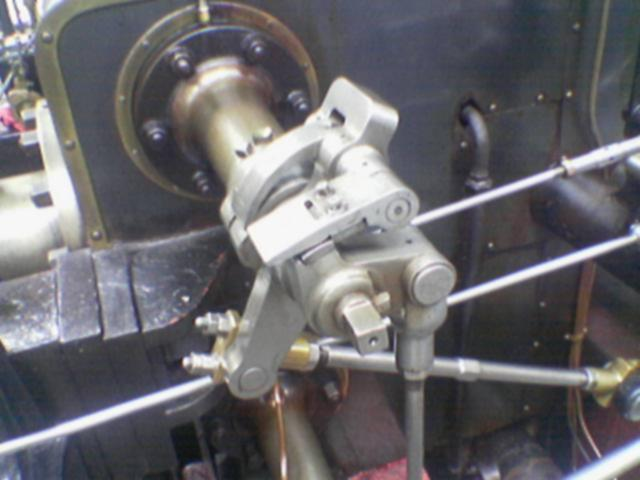
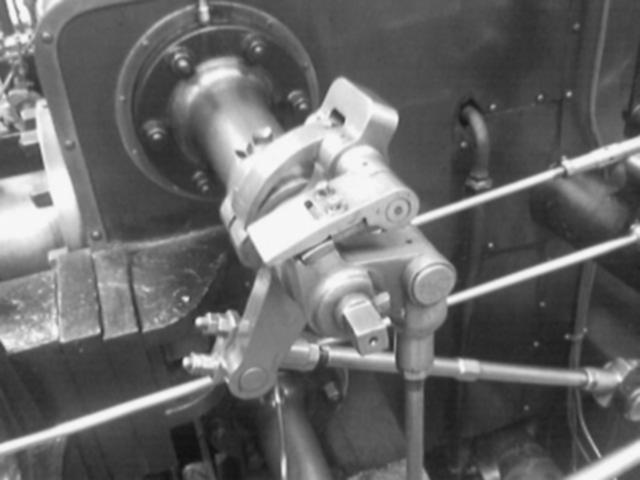
Creating Main function file

diff --git a/project-gpu.py b/project-gpu.py
@@ -1,0 +1,207 @@
+import argparse
+import numpy as np
+from PIL import Image
+from numba import cuda
+import math
+
+# Define global variables for thread block size
+TB_WIDTH = 16
+TB_HEIGHT = 16
+
+def bw_kernel(image_array):
+    global TB_WIDTH, TB_HEIGHT
+    # Use TB_WIDTH and TB_HEIGHT inside the kernel operation
+
+
+    # Define the grayscale kernel
+    bw_kernel = np.array([0.2989, 0.5870, 0.1140])
+
+    # Define the function to apply grayscale kernel to all pixels in parallel
+    @cuda.jit
+    def apply_grayscale_kernel(image_array, grayscale_image_array, bw_kernel):
+        i, j = cuda.grid(2)
+        if i < image_array.shape[0] and j < image_array.shape[1]:
+            # Calculate the dot product manually for each channel
+            grayscale_value = image_array[i, j, 0] * bw_kernel[0] + \
+                            image_array[i, j, 1] * bw_kernel[1] + \
+                            image_array[i, j, 2] * bw_kernel[2]
+            # Set the grayscale value for one channel
+            grayscale_image_array[i, j] = grayscale_value
+
+    # Calculate grid and block dimensions
+    threadsperblock = (TB_WIDTH, TB_HEIGHT)
+    blockspergrid_x = (image_array.shape[0] + threadsperblock[0] - 1) // threadsperblock[0]
+    blockspergrid_y = (image_array.shape[1] + threadsperblock[1] - 1) // threadsperblock[1]
+    blockspergrid = (blockspergrid_x, blockspergrid_y)
+
+    # Allocate memory for grayscale image
+    grayscale_image_array = np.empty((image_array.shape[0], image_array.shape[1]), dtype=np.float64)
+
+    # Launch the kernel
+    apply_grayscale_kernel[blockspergrid, threadsperblock](image_array, grayscale_image_array, bw_kernel)
+
+    # Normalize the grayscale image array
+    return np.uint8(grayscale_image_array)
+
+def gauss_kernel(image_array):
+    global TB_WIDTH, TB_HEIGHT
+    # Use TB_WIDTH and TB_HEIGHT inside the kernel operation
+
+    gaussian_filter = np.array([[1, 4, 6, 4, 1],
+                                [4, 16, 24, 16, 4],
+                                [6, 24, 36, 24, 6],
+                                [4, 16, 24, 16, 4],
+                                [1, 4, 6, 4, 1]])
+
+    # Define the function to apply Gaussian filter to a single channel
+    @cuda.jit
+    def apply_gaussian_filter_single_channel(array, filtered_array, gaussian_filter):
+        i, j = cuda.grid(2)
+        if i < array.shape[0] and j < array.shape[1]:
+            # Initialize the sum to the current pixel value
+            pixel_sum = array[i, j]
+            weight_sum = 1
+
+            # Iterate over the neighbors and apply the filter
+            for k in range(-2, 3):
+                for l in range(-2, 3):
+                    if 0 <= i + k < array.shape[0] and 0 <= j + l < array.shape[1]:
+                        pixel_sum += array[i + k, j + l] * gaussian_filter[k + 2, l + 2]
+                        weight_sum += gaussian_filter[k + 2, l + 2]
+
+            # Normalize the result
+            filtered_array[i, j] = pixel_sum / weight_sum
+
+    # Define the function to apply Gaussian filter to all channels in parallel
+    @cuda.jit
+    def apply_gaussian_filter(image_array, filtered_image_array, gaussian_filter):
+        i, j = cuda.grid(2)
+        if i < image_array.shape[0] and j < image_array.shape[1]:
+            apply_gaussian_filter_single_channel(
+                image_array, 
+                filtered_image_array,
+                gaussian_filter
+            )
+
+    # Calculate grid and block dimensions
+    threadsperblock = (TB_WIDTH, TB_HEIGHT)
+    blockspergrid_x = (image_array.shape[0] + threadsperblock[0] - 1) // threadsperblock[0]
+    blockspergrid_y = (image_array.shape[1] + threadsperblock[1] - 1) // threadsperblock[1] 
+    blockspergrid = (blockspergrid_x, blockspergrid_y)
+
+    # Allocate memory for filtered image
+    filtered_image_array = np.empty_like(image_array, dtype=np.float64)
+
+    # Copy the Gaussian filter to the device
+    d_gaussian_filter = cuda.to_device(gaussian_filter)
+
+    # Launch the kernel
+    apply_gaussian_filter[blockspergrid, threadsperblock](image_array, filtered_image_array, d_gaussian_filter)
+
+    # Normalize the filtered image array
+    filtered_image_array = np.uint8(filtered_image_array)
+    return filtered_image_array
+
+def sobel_kernel(image_array):
+    global TB_WIDTH, TB_HEIGHT
+    # Use TB_WIDTH and TB_HEIGHT inside the kernel operation
+
+    # Define the Sobel kernel
+    sobel_x = np.array([[1, 0, -1], [2, 0, -2], [1, 0, -1]])
+    sobel_y = np.array([[1, 2, 1], [0, 0, 0], [-1, -2, -1]])
+
+    @cuda.jit
+    def sobel_filter(image, output_image, sobel_x, sobel_y):
+        i, j = cuda.grid(2)
+        
+        if i > 0 and i < image.shape[0] - 1 and j > 0 and j < image.shape[1] - 1:
+                # Compute gradient in x direction
+                gx = (sobel_x[0, 0] * image[i - 1, j - 1] + sobel_x[0, 1] * image[i - 1, j] + sobel_x[0, 2] * image[i - 1, j + 1] +
+                    sobel_x[1, 0] * image[i, j - 1] + sobel_x[1, 1] * image[i, j] + sobel_x[1, 2] * image[i, j + 1] +
+                    sobel_x[2, 0] * image[i + 1, j - 1] + sobel_x[2, 1] * image[i + 1, j] + sobel_x[2, 2] * image[i + 1, j + 1])
+
+                # Compute gradient in y direction
+                gy = (sobel_y[0, 0] * image[i - 1, j - 1] + sobel_y[0, 1] * image[i - 1, j] + sobel_y[0, 2] * image[i - 1, j + 1] +
+                    sobel_y[1, 0] * image[i, j - 1] + sobel_y[1, 1] * image[i, j] + sobel_y[1, 2] * image[i, j + 1] +
+                    sobel_y[2, 0] * image[i + 1, j - 1] + sobel_y[2, 1] * image[i + 1, j] + sobel_y[2, 2] * image[i + 1, j + 1])
+                output_image[i + 1, j + 1] =math.sqrt(gx**2 + gy**2)                                                                                      
+                
+
+
+
+    output = np.zeros_like(image_array)
+    # Create CUDA device array for the image
+    d_image = cuda.to_device(image_array)
+    d_output = cuda.to_device(output)
+
+
+
+
+    # Define block and grid dimensions
+    threadsperblock = (TB_WIDTH, TB_HEIGHT)
+    blockspergrid_x = (image_array.shape[0] + threadsperblock[0] - 1) // threadsperblock[0]
+    blockspergrid_y = (image_array.shape[1] + threadsperblock[1] - 1) // threadsperblock[1]
+    blockspergrid = (blockspergrid_x, blockspergrid_y)
+
+    # Apply Sobel filter using CUDA
+    sobel_filter[blockspergrid, threadsperblock](d_image, d_output, sobel_x, sobel_y)
+
+    # Copy the result back to the CPU
+
+    d_output.copy_to_host(output)
+
+    # Normalize the grayscale image array
+    return np.uint8(d_output)
+    
+
+def threshold_kernel(image):
+    global TB_WIDTH, TB_HEIGHT
+    # Use TB_WIDTH and TB_HEIGHT inside the kernel operation
+    pass
+
+
+def main():
+    parser = argparse.ArgumentParser(description='Perform various image processing operations.')
+    parser.add_argument('inputImage', help='the source image')
+    parser.add_argument('outputImage', help='the destination image')
+    parser.add_argument('--tb', type=int, help='optional size of a thread block for all operations')
+    parser.add_argument('--bw', action='store_true', help='perform only the bw_kernel')
+    parser.add_argument('--gauss', action='store_true', help='perform the bw_kernel and the gauss_kernel')
+    parser.add_argument('--sobel', action='store_true', help='perform all kernels up to sobel_kernel and write to disk the magnitude of each pixel')
+    parser.add_argument('--threshold', action='store_true', help='perform all kernels up to threshold_kernel')
+    
+    args = parser.parse_args()
+
+    # input_image = cv2.imread(args.inputImage)
+    
+    # Load the image
+    image = Image.open(args.inputImage)
+    image_array = np.array(image)
+
+    if args.bw:
+        bw_image_array = bw_kernel(image_array)
+        grayscale_image = Image.fromarray(bw_image_array)
+        grayscale_image.save(args.outputImage)
+        return
+    
+    if args.gauss:
+        bw_image_array = bw_kernel(image_array)
+        gauss_image_array = gauss_kernel(bw_image_array)
+        gauss_image = Image.fromarray(gauss_image_array)
+        gauss_image.save(args.outputImage)
+        return
+    
+    if args.sobel:
+        bw_image_array = bw_kernel(image_array)
+        gauss_image_array = gauss_kernel(bw_image_array)
+        sobel_image_array = sobel_kernel(gauss_image_array)
+        sobel_image = Image.fromarray(sobel_image_array)
+        sobel_image.save(args.outputImage)
+        return
+    
+    if args.threshold:
+        threshold_kernel(image_array)
+    
+
+if __name__ == "__main__":
+    main()

diff --git a/BWkernel.py b/BWkernel.py
@@ -3,7 +3,7 @@ from PIL import Image
 from numba import cuda
 
 # Load the image
-image = Image.open("./valveFiltered.jpg")
+image = Image.open("./Valve_original.jpg")
 image_array = np.array(image)
 
 # Define the grayscale kernel
@@ -14,10 +14,11 @@ bw_kernel = np.array([0.2989, 0.5870, 0.1140])
 def apply_grayscale_kernel(image_array, grayscale_image_array, bw_kernel):
     i, j = cuda.grid(2)
     if i < image_array.shape[0] and j < image_array.shape[1]:
-        # Calculate the dot product manually
+        # Calculate the dot product manually for each channel
         grayscale_value = image_array[i, j, 0] * bw_kernel[0] + \
                          image_array[i, j, 1] * bw_kernel[1] + \
                          image_array[i, j, 2] * bw_kernel[2]
+        # Set the grayscale value for one channel
         grayscale_image_array[i, j] = grayscale_value
 
 # Calculate grid and block dimensions
@@ -27,7 +28,7 @@ blockspergrid_y = (image_array.shape[1] + threadsperblock[1] - 1) // threadsperb
 blockspergrid = (blockspergrid_x, blockspergrid_y)
 
 # Allocate memory for grayscale image
-grayscale_image_array = np.empty_like(image_array[:, :, 0], dtype=np.float64)
+grayscale_image_array = np.empty((image_array.shape[0], image_array.shape[1]), dtype=np.float64)
 
 # Launch the kernel
 apply_grayscale_kernel[blockspergrid, threadsperblock](image_array, grayscale_image_array, bw_kernel)
@@ -36,5 +37,5 @@ apply_grayscale_kernel[blockspergrid, threadsperblock](image_array, grayscale_im
 grayscale_image_array = np.uint8(grayscale_image_array)
 
 # Save the grayscale image
-grayscale_image = Image.fromarray(grayscale_image_array)
+grayscale_image = Image.fromarray(grayscale_image_array, mode='L')  # 'L' mode for grayscale
 grayscale_image.save("BWvalve.jpg")

diff --git a/Main.py b/Main.py
@@ -3,9 +3,8 @@ from PIL import Image
 from numba import cuda
 
 # Load the image
-image = Image.open("./Valve_original.png")
+image = Image.open("./BWvalve.jpg")
 image_array = np.array(image)
-
 
 # Define the Gaussian filter kernel
 gaussian_filter = np.array([[1, 4, 6, 4, 1],
@@ -28,11 +27,7 @@ def apply_gaussian_filter_single_channel(array, filtered_array, gaussian_filter)
             for l in range(-2, 3):
                 if 0 <= i + k < array.shape[0] and 0 <= j + l < array.shape[1]:
                     pixel_sum += array[i + k, j + l] * gaussian_filter[k + 2, l + 2]
-                else:
-                    # Use the current pixel value for out-of-bound pixels
-                    pixel_sum += array[i, j] * gaussian_filter[k + 2, l + 2]
-
-                weight_sum += gaussian_filter[k + 2, l + 2]
+                    weight_sum += gaussian_filter[k + 2, l + 2]
 
         # Normalize the result
         filtered_array[i, j] = pixel_sum / weight_sum
@@ -42,12 +37,11 @@ def apply_gaussian_filter_single_channel(array, filtered_array, gaussian_filter)
 def apply_gaussian_filter(image_array, filtered_image_array, gaussian_filter):
     i, j = cuda.grid(2)
     if i < image_array.shape[0] and j < image_array.shape[1]:
-        for channel in range(image_array.shape[2]):
-            apply_gaussian_filter_single_channel(
-                image_array[:, :, channel], 
-                filtered_image_array[:, :, channel],
-                gaussian_filter
-            )
+        apply_gaussian_filter_single_channel(
+            image_array, 
+            filtered_image_array,
+            gaussian_filter
+        )
 
 # Calculate grid and block dimensions
 threadsperblock = (16, 16)
